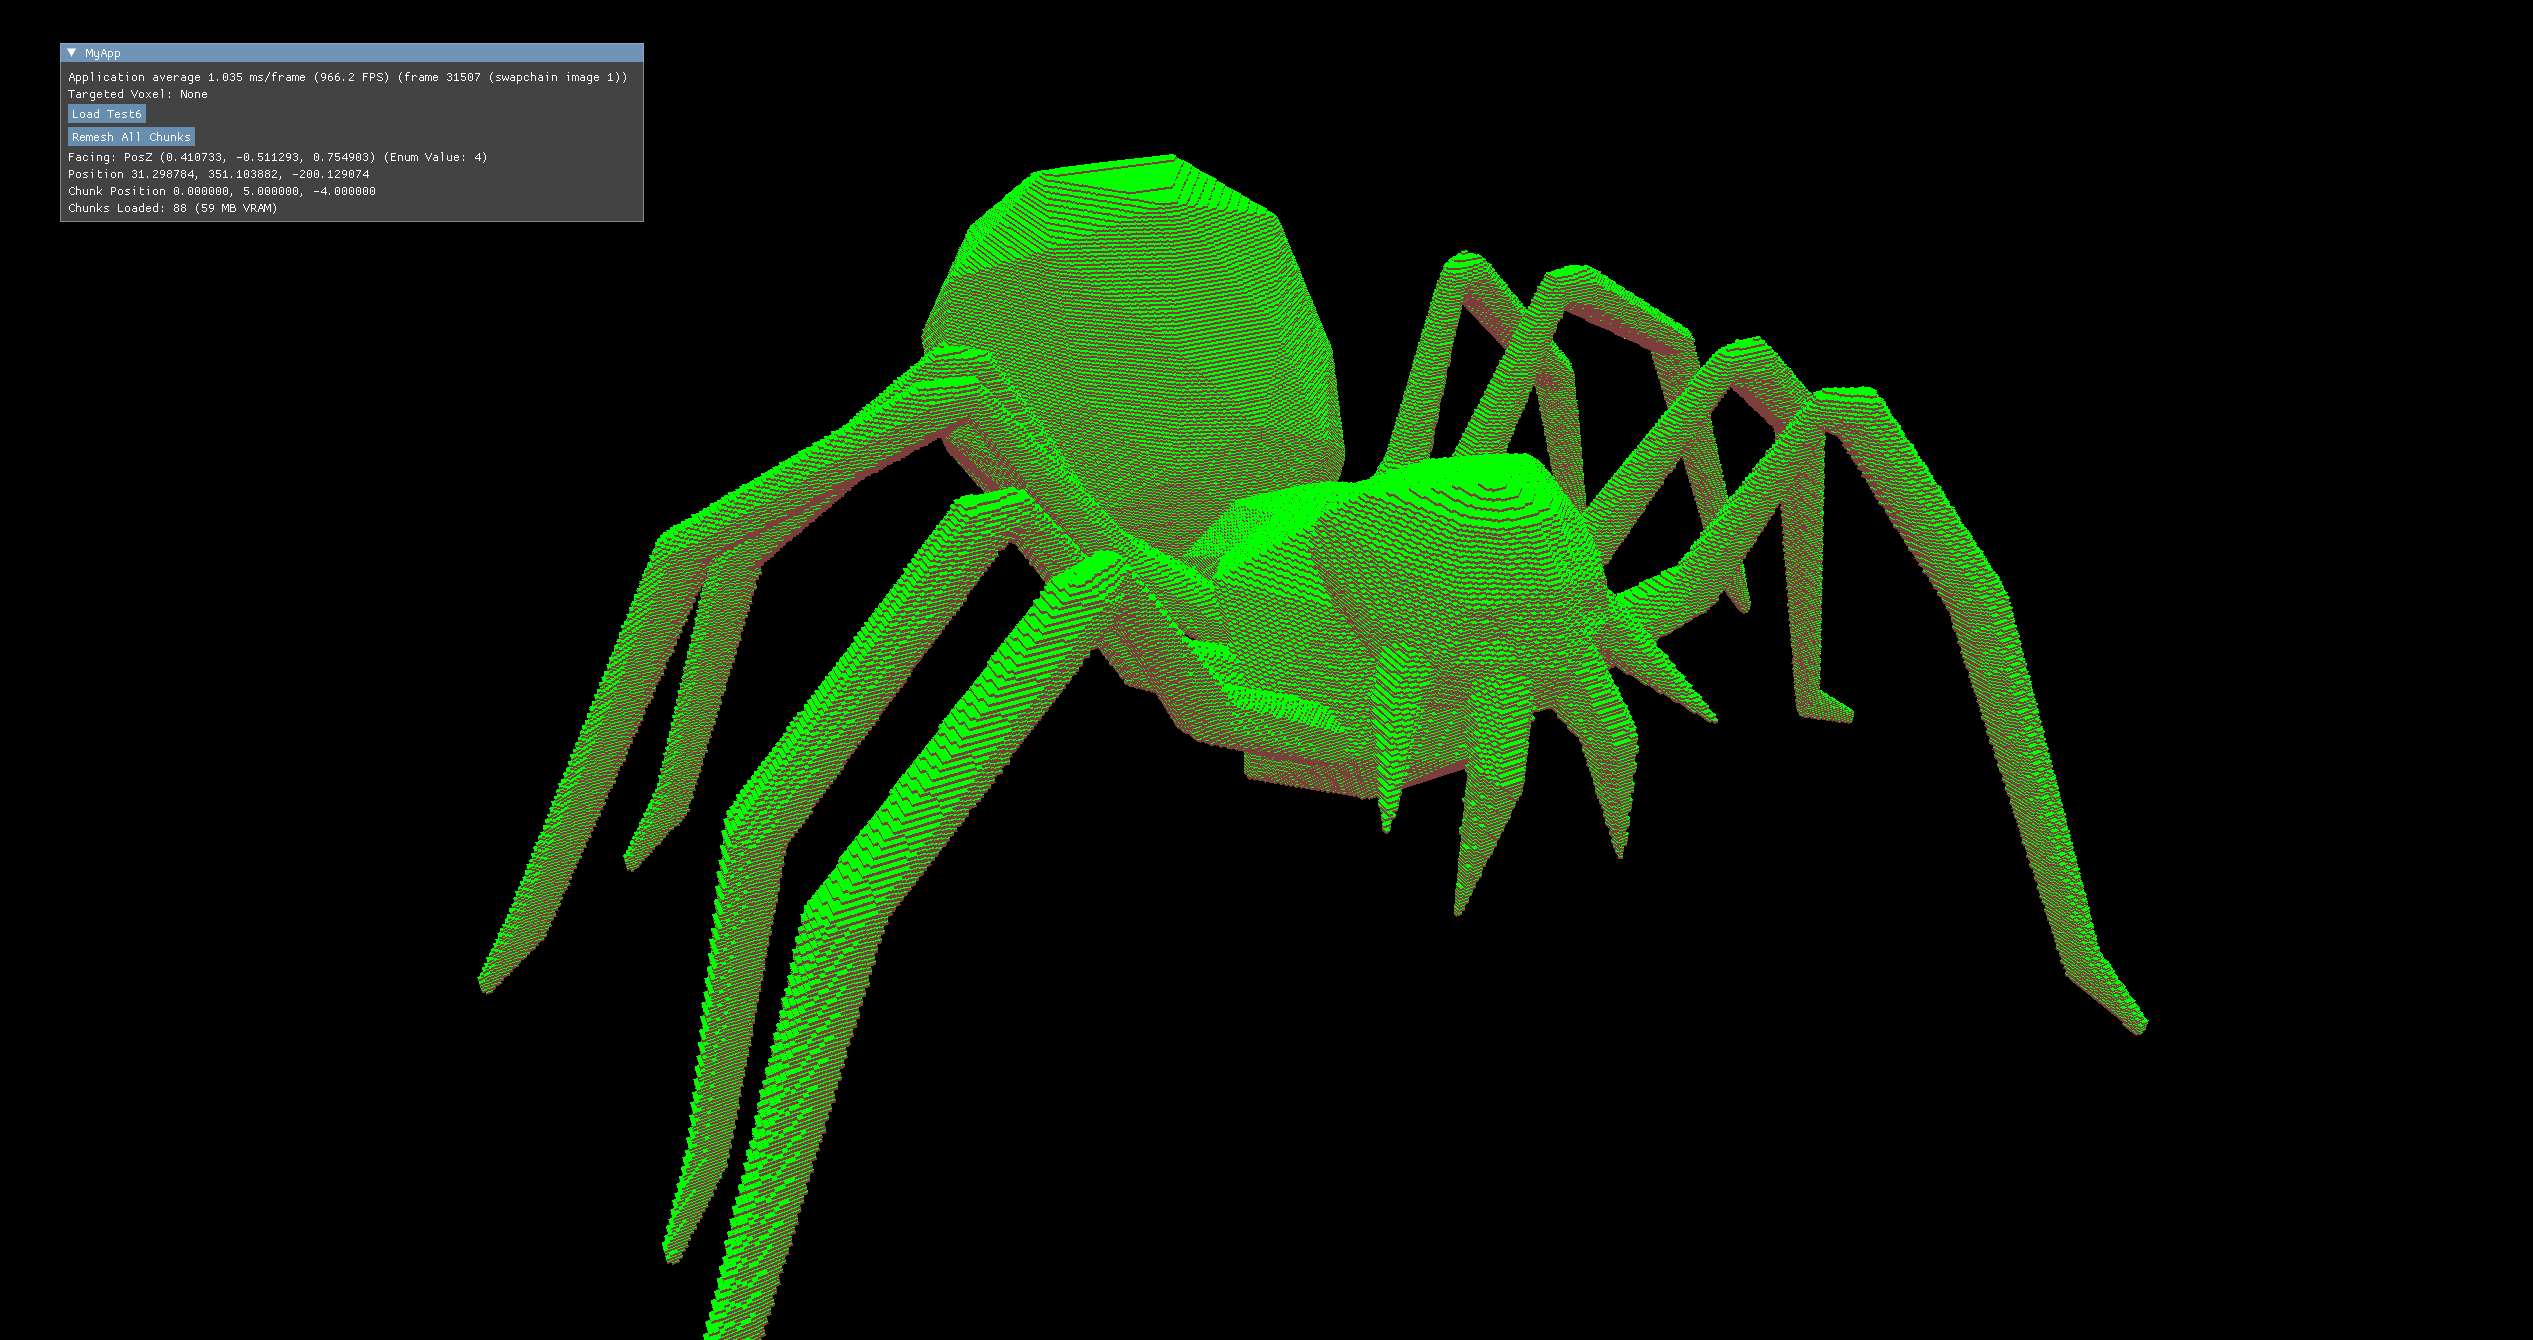
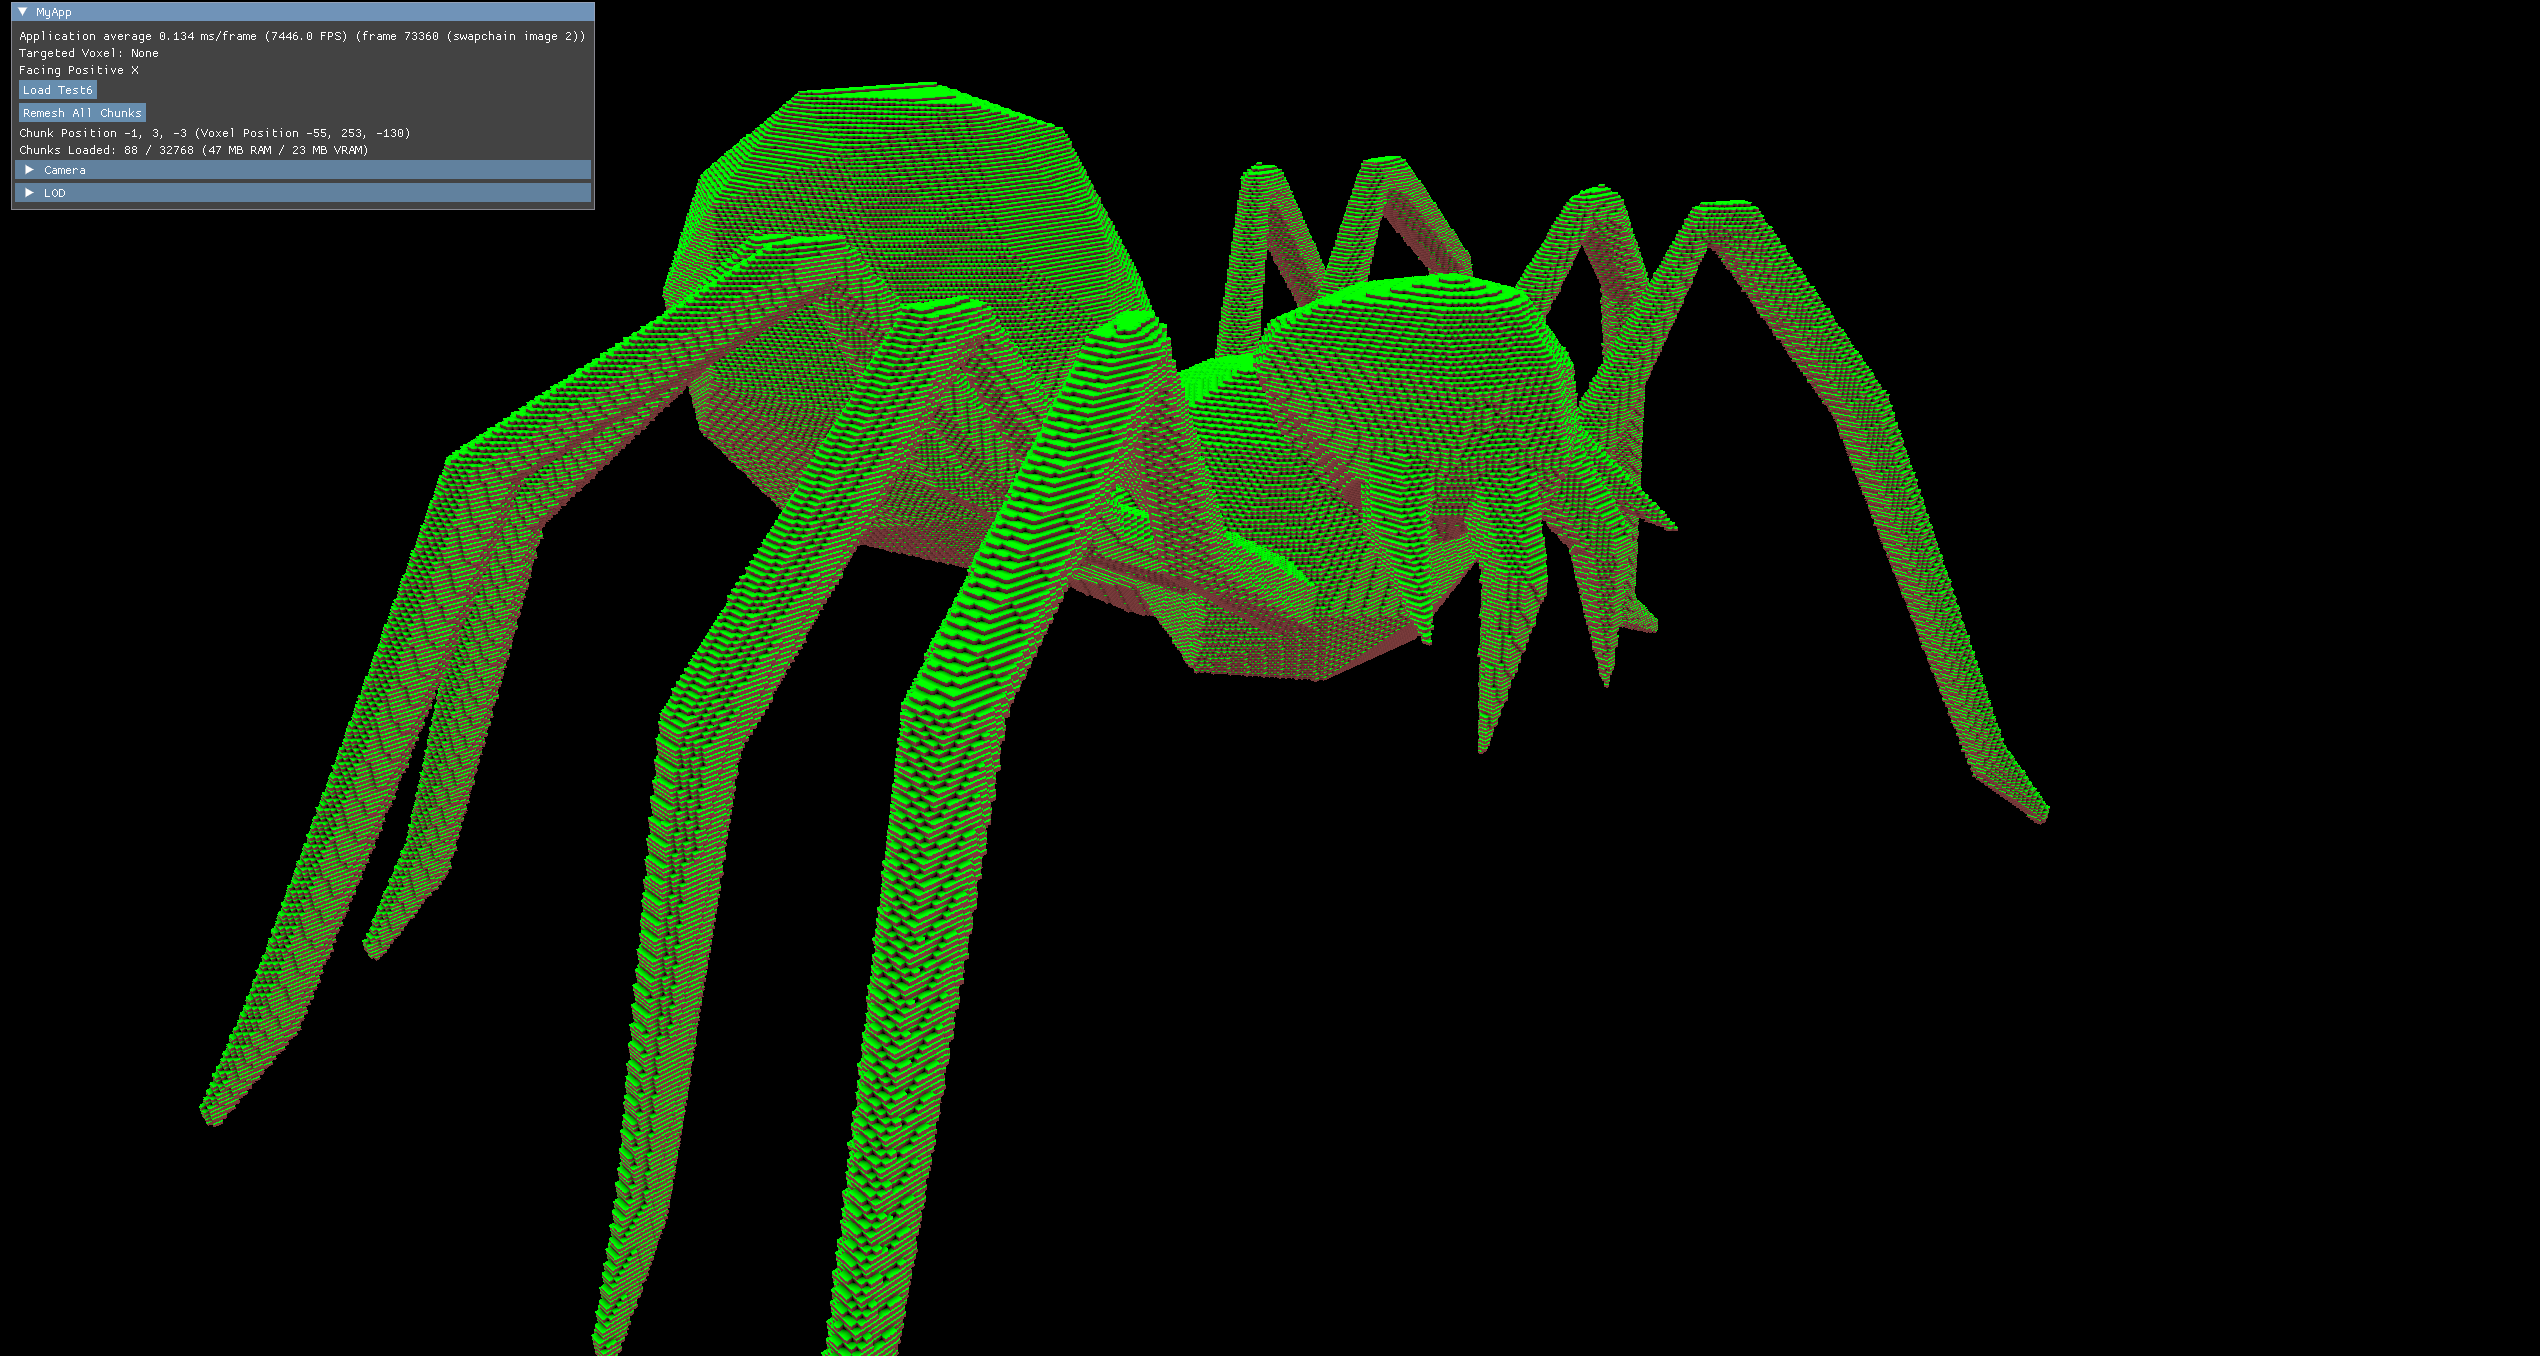
Update readme with new performance stats for Minecraft

Changed region(s): [[0.0, 0.0, 0.8421, 1.0]]

diff --git a/Spire/Game/Source/Profiling.h b/Spire/Game/Source/Profiling.h
@@ -21,7 +21,7 @@ public:
         glm::u64 FramesToProfile;
     };
 
-    static constexpr const char *PROFILE_WORLD_NAME = "Test6";
+    static constexpr const char *PROFILE_WORLD_NAME = "Test7";
 
     static constexpr ProfileStrategy PROFILE_STATIC = {ProfileStrategy::STATIC, 10000};
     static constexpr ProfileStrategy PROFILE_STATIC_1000 = {ProfileStrategy::STATIC, 1000};

diff --git a/README.md b/README.md
@@ -5,7 +5,7 @@ Spire is a low level Vulkan voxel renderer.
 See [Documentation](https://github.com/underscore95/VulkanTutorial/tree/main/Documentation) for documentation, building instructions,  etc.
 
 ![Screenshot](Documentation/Images/ao_screenshot.png)
-Above is a screenshot showing Spire rendering 32x32 Minecraft chunks (36,031,803 non-empty voxels) at over 2600 FPS on an RTX 4060 Ti with 90 MB VRAM.
+Above is a screenshot showing Spire rendering 32x32 Minecraft chunks (36,031,803 non-empty voxels) at over 9600 FPS on an RTX 4060 Ti with 65 MB VRAM.
 
 Minecraft (1.21.1) renders the same world region at 700 FPS with ~0.5GB VRAM. Obviously an unfair comparison because Minecraft has lighting, more voxels, entities, etc.
 
@@ -15,12 +15,11 @@ While Spire supports up to 2^16-1 voxel types, only grass and dirt have been con
 
 ![Screenshot](Documentation/Images/spider_screenshot.png)
 
-Above is a screenshot of a spider model being rendered by Spire. It takes up 8x4x8 chunks where each chunk is 64^3 voxels. This version of Spire is slightly outdated and doesn't haev ambient occlusion and some optimisations.
+Above is a screenshot of a spider model being rendered by Spire. It takes up 8x4x8 chunks where each chunk is 64^3 voxels. 
 
 spider.obj was taken from https://github.com/assimp/assimp/tree/master/test/models/OBJ and then converted to .xyzrgb using https://github.com/eisenwave/obj2voxel (scaled up 4x) and then converted into .sprc via Tooling/XYZRGBConverter which Spire is capable of rendering.
 
-46 MB RAM Used
-
-59 MB VRAM Used
-
-0.148ms/frame (6700 FPS)
+Performance: 
+- 46 MB RAM
+- 23 MB VRAM
+- 6350 FPS
